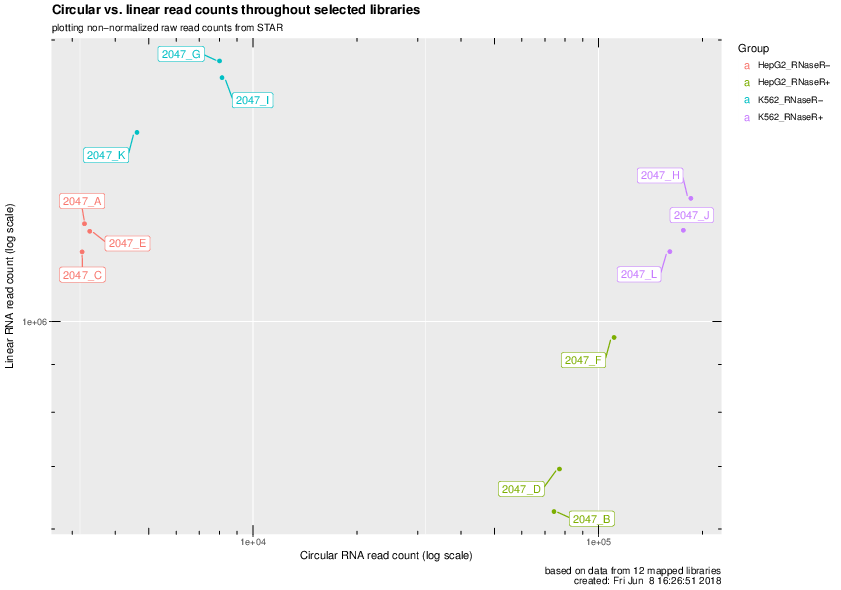
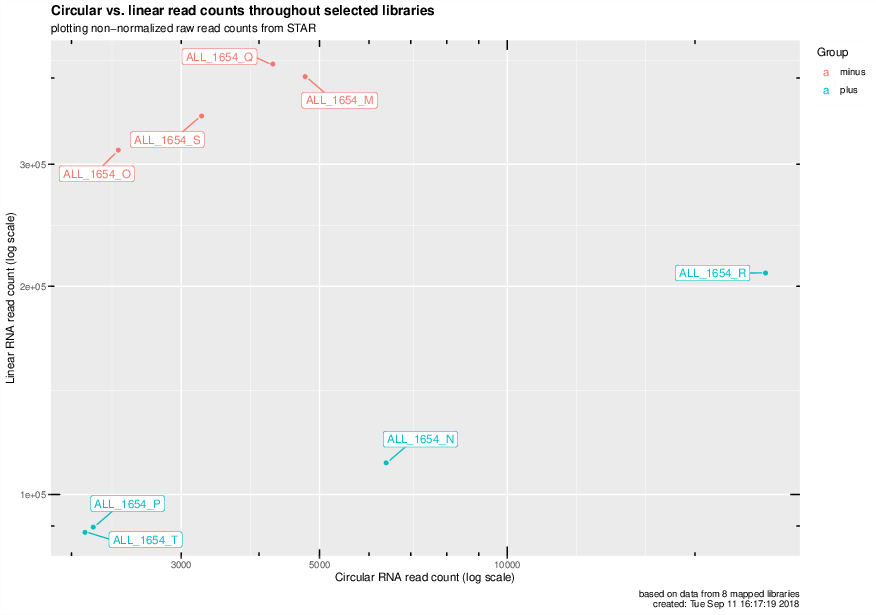
Updating quickcheck call and result images for #25

diff --git a/docs/Quickcheck.rst b/docs/Quickcheck.rst
@@ -78,9 +78,9 @@ Sample call
 ^^^^^^^^^^^^
 .. code-block:: bash
 
-    circtools quickcheck -d DCC/ -s mapping/ -l HepG2-,HepG2+,K562-,K562+ -g 1,2,1,2,1,2,3,4,3,4,3,4
+    circtools quickcheck -d 01_detect/ -s ../star  -l minus,plus -g 1,2,1,2,1,2,1,2  -o 02_quickcheck/  -C .Chimeric.out.junction
 
-Here we have the DCC data located in the folder ``DCC/``, the STAR mapping are stored in ``mapping/``, the experiment had 4 conditions, listed via ``-l HepG2-,HepG2+,K562-,K562+``, the samples in the DCC data file are sorted in the the order specified via ``-g 1,2,1,2,1,2,3,4,3,4,3,4``.
+Here we have the DCC data located in the folder ``01_detect/``, the STAR mapping are stored in ``star/``, the experiment had 4 conditions, listed via ``-l RNaseR_minus,RNaseR_plus``, the samples in the detection data file are sorted in the the order specified via ``-g 1,2,1,2,1,2,1,2``.
 
 .. code-block:: bash
 
@@ -88,8 +88,8 @@ Here we have the DCC data located in the folder ``DCC/``, the STAR mapping are s
     Loading CircRNACount
     Loading LinearRNACount
     Parsing data
-    Found 18 data columns in provided DCC data
-    4 different groups provided
+    Found 8 data columns in provided DCC data
+    2 different groups provided
     Assuming (1,2),(1,2),(1,2),... sample grouping
     plotting data
     Done
